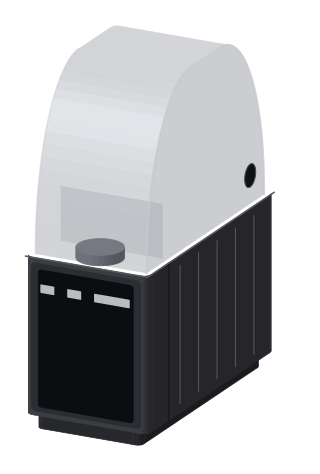
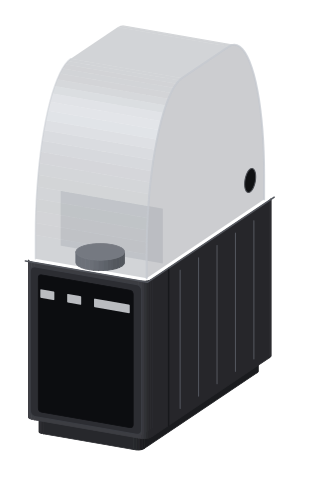
fix(ams): review fixes for the new units (prestonbrown/helixscreen#2068)
The AMS HT lid clears its spool, front parts stop at the unit's ends, ViViD matches before Box Turtle, and the unconfirmed KMS row is dropped.

Test-budget: +15 front part clamp and lid clearance

diff --git a/tests/python/test_unit_art_kit.py b/tests/python/test_unit_art_kit.py
@@ -11,7 +11,7 @@ REPO = Path(__file__).resolve().parents[2]
 sys.path.insert(0, str(REPO / "scripts"))
 
 from unit_art import build, kit, spool  # noqa: E402
-from unit_art.units import ace_pro, box_turtle, cfs  # noqa: E402
+from unit_art.units import ace_pro, ams_ht, box_turtle, cfs  # noqa: E402
 
 
 def test_camera_is_the_agreed_three_quarter():
@@ -118,6 +118,14 @@ def test_the_generator_refuses_a_lid_or_cheek_the_tray_cannot_draw():
         kit.fit_cap_points([(0.0, 0.0)])
     with pytest.raises(ValueError):
         kit.check_cheek([(0.0, 0.0), (0.5, 1.0), (0.5, 2.0)])
+
+
+def test_the_ams_ht_lid_clears_its_spool():
+    profile = ams_ht._lid_profile()
+    for y, z in profile:
+        dy = y - ams_ht.SPOOL_Y
+        if abs(dy) < ams_ht.SPOOL_R and z > ams_ht.BODY_Z + 0.01:
+            assert z >= ams_ht.SPOOL_Z + (ams_ht.SPOOL_R**2 - dy**2) ** 0.5 - 0.002
 
 
 def test_units_differ_by_their_fronts():

diff --git a/src/ui/filament/ams_unit_shell.cpp b/src/ui/filament/ams_unit_shell.cpp
@@ -23,11 +23,12 @@ struct ShellRow {
 };
 
 constexpr ShellRow kShellRows[] = {
-    {"ace", nullptr, "ace_pro", nullptr},
+    {"ace", nullptr, "ace_pro", nullptr, 0},
+    // Ahead of the Box Turtle row: AFC names read "<type> <instance>", and an instance may
+    // be called anything.
+    {"afc", "vivid", "btt_vivid", nullptr, 0},
     {"afc", "turtle", "box_turtle", "box_turtle_enclosed", 0},
-    {"afc", "vivid", "btt_vivid", nullptr},
-    {"afc", "kms", "kms", nullptr, 0},
-    {"cfs", nullptr, "cfs", nullptr},
+    {"cfs", nullptr, "cfs", nullptr, 0},
     {"qidi_box", nullptr, "qidi_box", nullptr, 0},
     // An OpenAMS hub reports no model: its single-lane unit is the AMS HT.
     {"openams", nullptr, "ams_ht", nullptr, 1},

diff --git a/tests/unit/test_ams_tray_projection.cpp b/tests/unit/test_ams_tray_projection.cpp
@@ -283,6 +283,9 @@ TEST_CASE("tray projection: front parts anchor to the row, a lane or an end", "[
     CHECK(box[0] == Approx(199.0f));
     front_part_box(b, {FrontAnchor::Left, 2, 6, 0, 1, 0, 0}, 55.0f, 0, box);
     CHECK(box[0] == Approx(101.0f));
+    // A part wider than the row stops at the unit's end.
+    front_part_box(b, {FrontAnchor::Left, 2, 900, 0, 1, 0, 0}, 55.0f, 0, box);
+    CHECK(box[2] == Approx(300.0f));
     front_part_box(b, {FrontAnchor::Right, 2, 6, 0, 1, 0, 0}, 55.0f, 0, box);
     CHECK(box[0] == Approx(297.0f));
     CHECK(box[2] == Approx(299.0f));

diff --git a/tests/unit/test_ams_unit_shell.cpp b/tests/unit/test_ams_unit_shell.cpp
@@ -56,7 +56,7 @@ TEST_CASE("unit shell: each identified unit finds its own drawing", "[ams][unit-
     CHECK(id(AmsType::CFS, "CFS 1") == "cfs");
     CHECK(id(AmsType::QIDI_BOX, "Box 1") == "qidi_box");
     CHECK(id(AmsType::AFC, "ViViD_1") == "btt_vivid");
-    CHECK(id(AmsType::AFC, "KMS_1") == "kms");
+    CHECK(id(AmsType::AFC, "ViViD turtle_2") == "btt_vivid");
     CHECK(id(AmsType::OPENAMS, "oams1") == "ams_2_pro");
     AmsSystemInfo single = one_unit(AmsType::OPENAMS, "oams1");
     single.units[0].slot_count = 1;

diff --git a/src/ui/filament/ams_tray_projection.cpp b/src/ui/filament/ams_tray_projection.cpp
@@ -85,9 +85,10 @@ void front_part_box(const TrayBox& b, const FrontPart& part, float spool_size, f
         x1 = b.fr - part.x0 * scale;
         break;
     }
-    out[0] = x0;
+    // A narrow row must not push a part past the unit's ends.
+    out[0] = std::clamp(x0, b.fl, b.fr);
     out[1] = b.ft + part.y0 * scale;
-    out[2] = x1;
+    out[2] = std::clamp(x1, b.fl, b.fr);
     out[3] = b.ft + part.y1 * scale;
 }
 

diff --git a/scripts/unit_art/units/ams_ht.py b/scripts/unit_art/units/ams_ht.py
@@ -18,7 +18,7 @@ _REPO = Path(__file__).resolve().parents[3]
 
 
 def _lid_profile():
-    return kit.arch_profile(LID_Y0, LID_Y1, BODY_Z, H, flat=0.26, riser=0.01)
+    return kit.arch_profile(LID_Y0, LID_Y1, BODY_Z, H, flat=0.40, riser=0.05)
 
 
 def _disc(xc, yc, zc, r, axis):
